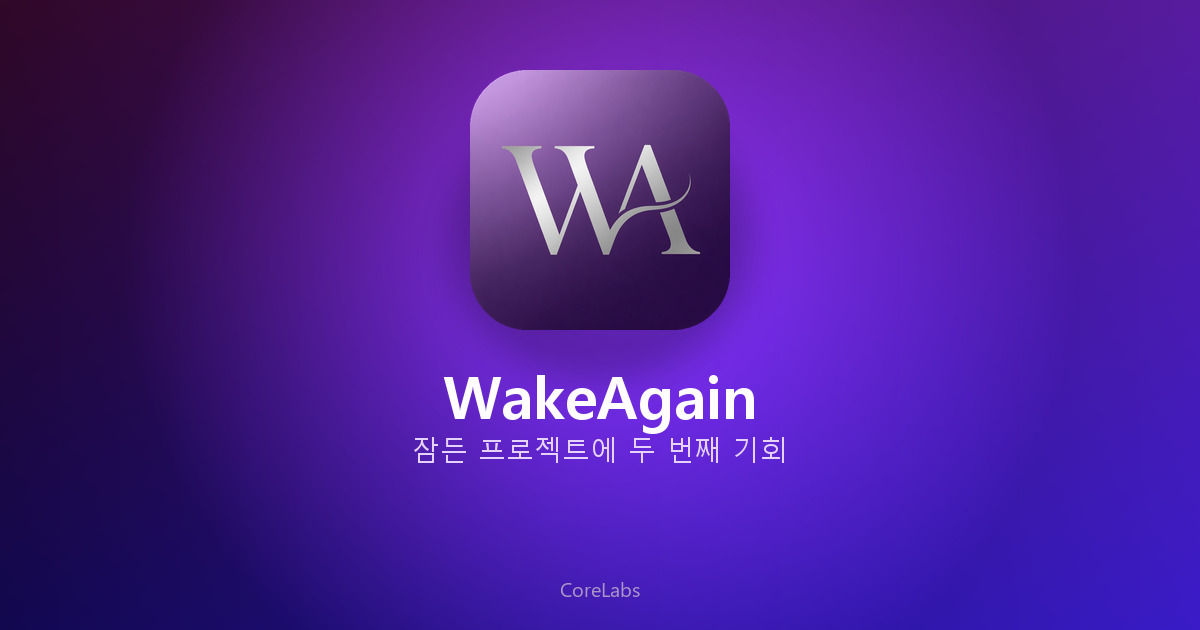
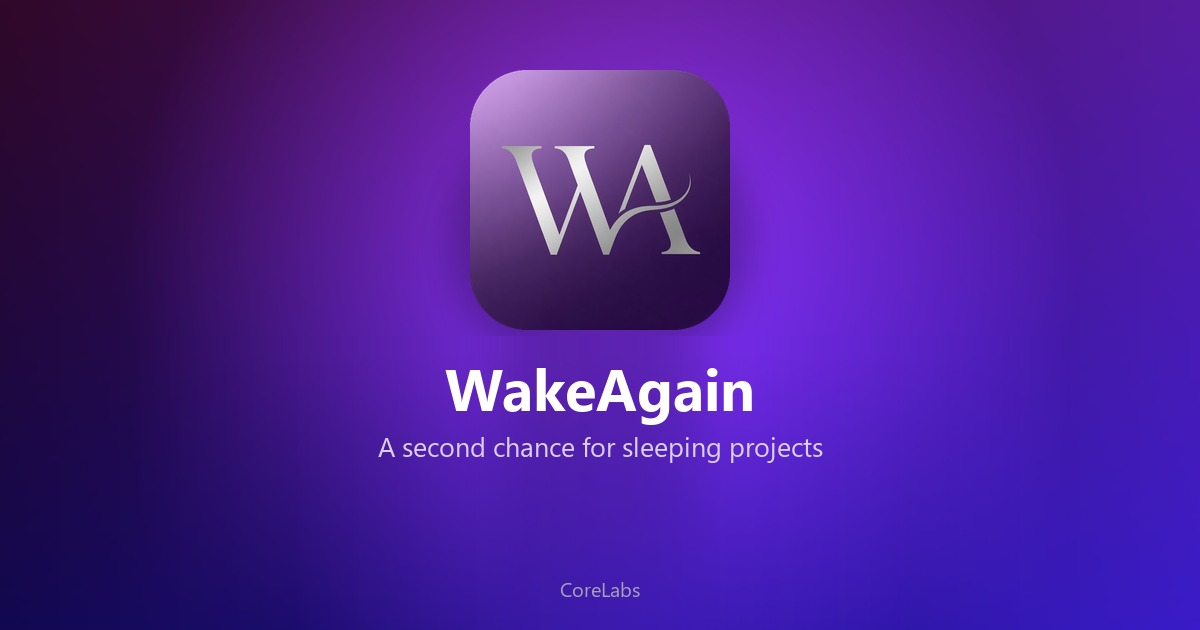
Translate homepage OG share card to English
The default social card (og-image.jpg/png) still had Korean copy
("잠든 프로젝트에 두 번째 기회"), showing up untranslated when the
homepage link was shared on X. Redraws the same icon/background with
"A second chance for sleeping projects" instead, matching the
global-first EN launch. Bumps the index.html cache-busting query and
sw.js CACHE version so the new image isn't served stale.

Changed region(s): [[0.3083, 0.573, 0.7092, 0.8444], [0.4625, 0.9048, 0.5242, 0.9651]]

diff --git a/public/index.html b/public/index.html
@@ -17,22 +17,22 @@
   <meta property="og:url" content="https://wakeagain.com/" />
   <meta property="og:title" content="WakeAgain — Buy & sell abandoned side projects" />
   <meta property="og:description" content="Marketplace for abandoned side projects and unfinished SaaS. Bid, win, pay, handover. Free to list. $0 buyer fees." />
-  <meta property="og:image" content="https://wakeagain.com/assets/og-image.jpg?v=20260727" />
-  <meta property="og:image:url" content="https://wakeagain.com/assets/og-image.jpg?v=20260727" />
-  <meta property="og:image:secure_url" content="https://wakeagain.com/assets/og-image.jpg?v=20260727" />
+  <meta property="og:image" content="https://wakeagain.com/assets/og-image.jpg?v=20260811" />
+  <meta property="og:image:url" content="https://wakeagain.com/assets/og-image.jpg?v=20260811" />
+  <meta property="og:image:secure_url" content="https://wakeagain.com/assets/og-image.jpg?v=20260811" />
   <meta property="og:image:type" content="image/jpeg" />
   <meta property="og:image:width" content="1200" />
   <meta property="og:image:height" content="630" />
   <meta property="og:image:alt" content="WakeAgain" />
   <meta property="og:locale" content="en_US" />
   <meta property="og:locale:alternate" content="ko_KR" />
-  <link rel="image_src" href="https://wakeagain.com/assets/og-image.jpg?v=20260727" />
+  <link rel="image_src" href="https://wakeagain.com/assets/og-image.jpg?v=20260811" />
 
   <!-- Twitter / X -->
   <meta name="twitter:card" content="summary_large_image" />
   <meta name="twitter:title" content="WakeAgain — Buy & sell abandoned side projects" />
   <meta name="twitter:description" content="Marketplace for abandoned side projects and unfinished SaaS. Bid, win, pay, handover. Free to list. $0 buyer fees." />
-  <meta name="twitter:image" content="https://wakeagain.com/assets/og-image.jpg?v=20260727" />
+  <meta name="twitter:image" content="https://wakeagain.com/assets/og-image.jpg?v=20260811" />
 
   <link rel="alternate" hreflang="en" href="/" />
   <link rel="alternate" hreflang="ko" href="/?lang=ko" />

diff --git a/public/sw.js b/public/sw.js
@@ -1,5 +1,5 @@
 /* WakeAgain PWA ??app shell cache (network-first for API) */
-const CACHE = "wakeagain-shell-v43-select-color-scheme-fix";
+const CACHE = "wakeagain-shell-v44-og-image-en";
 const PRECACHE = [
   "/",
   "/index.html",
